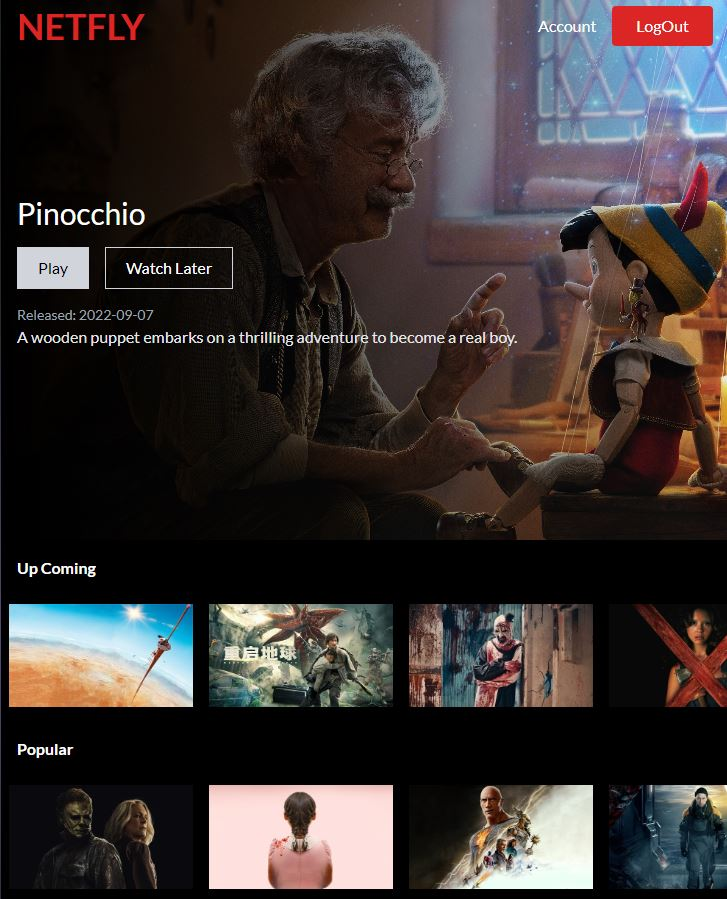
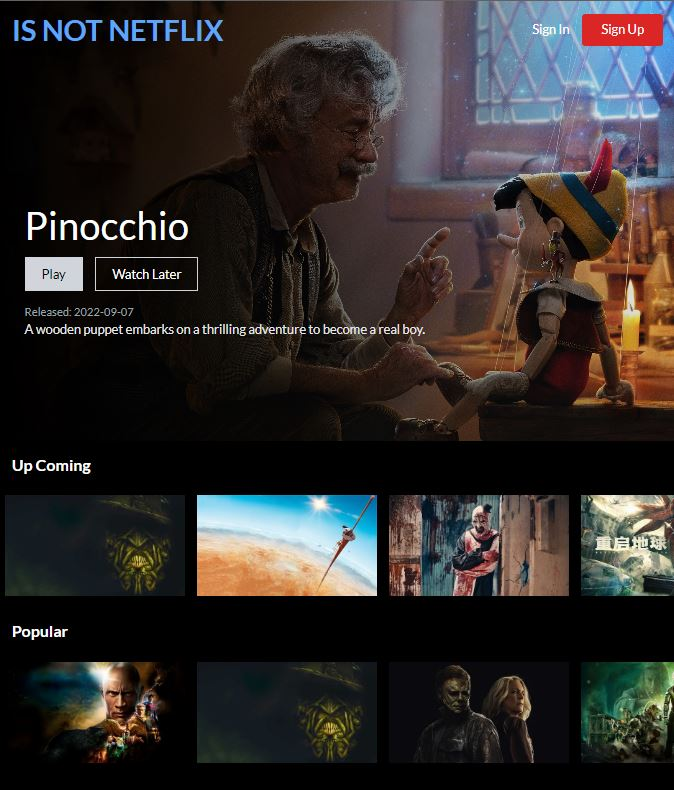
Feat: pokedex changed

diff --git a/src/components/Work.jsx b/src/components/Work.jsx
@@ -66,7 +66,7 @@ const Work = () => {
 
             <div className="opacity-0 group-hover:opacity-100">
               <span className="text-2xl font-bold text-white tracking-wider">
-                Netfly Movies
+                IS NOT NETFLIX
               </span>
               <div className="pt-8 text-center">
                 <a href="https://netfly-react.web.app/" target="blank_">
@@ -124,15 +124,12 @@ const Work = () => {
                 Pokédex
               </span>
               <div className="pt-8 text-center">
-                <a href="https://lpedicino.github.io/pokeapp" target="blank_">
+                <a href="https://lpedicino.github.io/pokedex" target="blank_">
                   <button className="text-center rounded-full px-4 py-3 m-2 bg-white text-gray-700 font-bold text-lg">
                     Demo
                   </button>
                 </a>
-                <a
-                  href="https://github.com/LPedicino/pokeapp/tree/main"
-                  target="blank_"
-                >
+                <a href="https://github.com/LPedicino/pokedex/" target="blank_">
                   <button className="text-center rounded-full px-4 py-3 m-2 bg-white text-gray-700 font-bold text-lg">
                     Code
                   </button>
